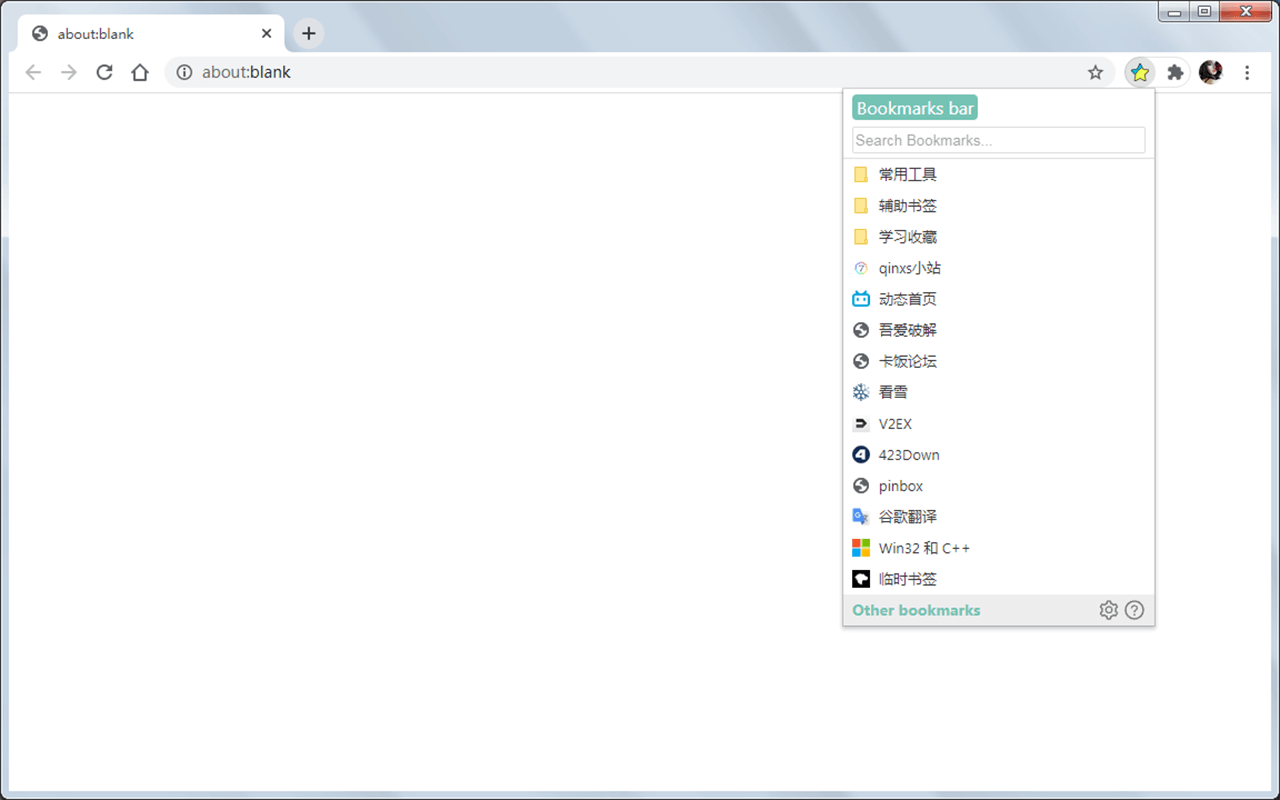
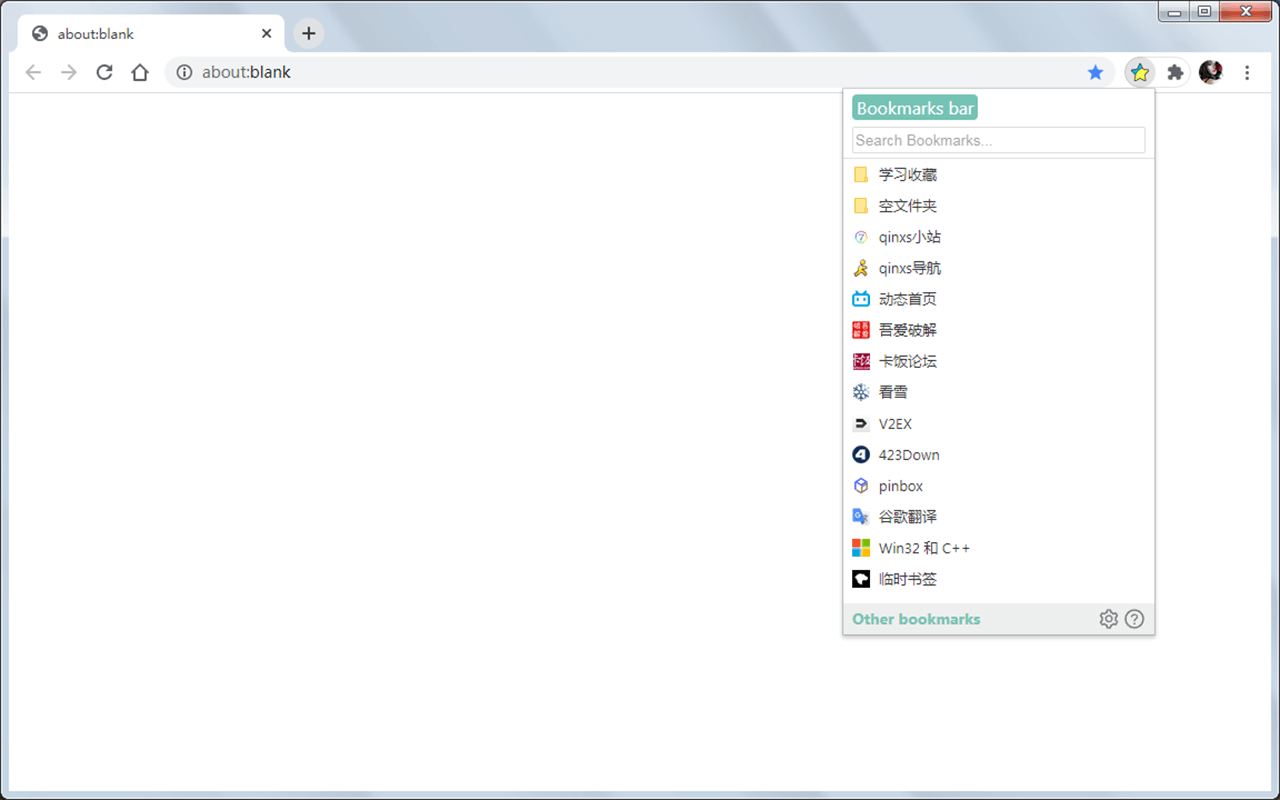
docs: 重新截图

diff --git a/screenshots/bookmarks_demo.html b/screenshots/bookmarks_demo.html
@@ -1,0 +1,124 @@
+<!DOCTYPE NETSCAPE-Bookmark-file-1>
+<!-- This is an automatically generated file.
+     It will be read and overwritten.
+     DO NOT EDIT! -->
+<META HTTP-EQUIV="Content-Type" CONTENT="text/html; charset=UTF-8">
+<TITLE>Bookmarks</TITLE>
+<H1>Bookmarks</H1>
+<DL><p>
+    <DT><H3 ADD_DATE="1639322214" LAST_MODIFIED="1639322711" PERSONAL_TOOLBAR_FOLDER="true">书签栏</H3>
+    <DL><p>
+        <DT><H3 ADD_DATE="1639322260" LAST_MODIFIED="1639322897">学习收藏</H3>
+        <DL><p>
+            <DT><H3 ADD_DATE="1639322894" LAST_MODIFIED="1639322894">参考站点</H3>
+            <DL><p>
+                <DT><A HREF="http://www.dxzy163.com/" ADD_DATE="1639322894">大学资源网</A>
+                <DT><A HREF="http://www.uugai.com/" ADD_DATE="1639322894">字体logo</A>
+                <DT><A HREF="https://www.60logo.com/list" ADD_DATE="1639322894">60LOGO素材库</A>
+                <DT><A HREF="https://colorhub.me/" ADD_DATE="1639322894">colorhub.me</A>
+                <DT><A HREF="https://zh.pngtree.com/" ADD_DATE="1639322894">Pngtree素材</A>
+                <DT><A HREF="https://pic.netbian.com/" ADD_DATE="1639322894">彼岸图网</A>
+                <DT><A HREF="https://www.dushu.com/showbook/124699/1825025.html" ADD_DATE="1639322894">读书网|dushu.com</A>
+                <DT><A HREF="https://www.iconfinder.com/" ADD_DATE="1639322894">Iconfinder</A>
+                <DT><A HREF="http://remixicon.com/" ADD_DATE="1639322894">Remix Icon</A>
+                <DT><A HREF="https://www.colorhunt.co/" ADD_DATE="1639322894">Color Hunt</A>
+                <DT><A HREF="https://sc.chinaz.com/jiaoben/" ADD_DATE="1639322894">js特效代码</A>
+                <DT><A HREF="https://chromium.woolyss.com/" ADD_DATE="1639322894">Chromium</A>
+                <DT><A HREF="https://www.library.ac.cn/" ADD_DATE="1639322894">Google Mirror</A>
+                <DT><A HREF="https://crxdl.com/" ADD_DATE="1639322894">CRX下载网</A>
+                <DT><A HREF="https://lug.ustc.edu.cn/wiki/lug/services/" ADD_DATE="1639322894">中科大镜像 - LUG</A>
+            </DL><p>
+            <DT><H3 ADD_DATE="1639322776" LAST_MODIFIED="1639322884">常用工具</H3>
+            <DL><p>
+            </DL><p>
+            <DT><H3 ADD_DATE="1639322260" LAST_MODIFIED="0">优秀教程</H3>
+            <DL><p>
+            </DL><p>
+            <DT><A HREF="https://zhuanlan.zhihu.com/p/67795412?utm_source=ZHShareTargetIDMore&utm_medium=social&utm_oi=76142648229888" ADD_DATE="1639322564">Qt开发经验总结之武林秘籍 - 知乎</A>
+            <DT><A HREF="https://www.kuboard.cn/learning/" ADD_DATE="1639322564">Kubernetes教程 | Kuboard</A>
+            <DT><A HREF="https://www.ip138.com/" ADD_DATE="1639322783">iP138</A>
+            <DT><A HREF="https://www.bootcdn.cn/" ADD_DATE="1639322783">BootCDN</A>
+            <DT><A HREF="https://www.wolframalpha.com/" ADD_DATE="1639322783">Wolfram|Alpha</A>
+            <DT><A HREF="https://www.bejson.com/convert/html2markdown/" ADD_DATE="1639322783">Html/MarkDown互转</A>
+            <DT><A HREF="https://latexlive.com/" ADD_DATE="1639322783">LaTeX在线</A>
+            <DT><A HREF="https://tool.lu/" ADD_DATE="1639322783">在线工具</A>
+            <DT><A HREF="http://www.dephp.cn/free/" ADD_DATE="1639322783">PHP在线解密</A>
+            <DT><A HREF="https://www.jsonla.com/http/test.html" ADD_DATE="1639322783">在线HTTP接口测试</A>
+            <DT><A HREF="https://www.bejson.com/jshtml_format/" ADD_DATE="1639322783">JS 压缩/解压</A>
+            <DT><A HREF="https://tool.chinaz.com/tools/urlencode.aspx" ADD_DATE="1639322783">长 Url 编码/解码</A>
+            <DT><A HREF="https://gcc.godbolt.org/" ADD_DATE="1639322783">Compiler Explorer</A>
+            <DT><A HREF="https://www.cs.usfca.edu/~galles/visualization/Algorithms.html" ADD_DATE="1639322783">Data Structure Visualization</A>
+            <DT><A HREF="https://jsoneditoronline.org/" ADD_DATE="1639322783">JSON Editor</A>
+            <DT><A HREF="https://www.bejson.com/" ADD_DATE="1639322783">bejson</A>
+            <DT><A HREF="https://jsbin.com/?html,output" ADD_DATE="1639322783">JS Bin</A>
+            <DT><A HREF="http://sqlfiddle.com/" ADD_DATE="1639322783">SQL Fiddle</A>
+            <DT><A HREF="https://regexper.com/" ADD_DATE="1639322783">Regexper正则图</A>
+            <DT><A HREF="https://regexr.com/" ADD_DATE="1639322783">RegExr: Learn, Build, &amp; Test RegEx</A>
+            <DT><A HREF="https://map.baidu.com/" ADD_DATE="1639322783">百度地图</A>
+            <DT><A HREF="https://www.cmd5.com/" ADD_DATE="1639322783">CMD5 解密加密</A>
+            <DT><A HREF="https://v3.cn.vuejs.org/guide/introduction.html" ADD_DATE="1639322564">介绍 | Vue.js</A>
+            <DT><A HREF="https://www.kancloud.cn/yunye/twig-cn/159454" ADD_DATE="1639322564">首页 · Twig 中文文档 · 看云</A>
+            <DT><A HREF="https://www.webpackjs.com/guides/shimming/" ADD_DATE="1639322564">shimming | webpack 中文网</A>
+            <DT><A HREF="https://www.kancloud.cn/manual/thinkphp5/118006" ADD_DATE="1639322564">安装ThinkPHP · ThinkPHP5.0完全开发手册 · 看云</A>
+            <DT><A HREF="https://www.kancloud.cn/thinkphp/linux-command-line/39468" ADD_DATE="1639322564">第三十七章：奇珍异宝 · The Linux Command Line 中文版 · 看云</A>
+            <DT><A HREF="https://referencesource.microsoft.com/?utm_source=ZHShareTargetIDMore&utm_medium=social&utm_oi=76142648229888" ADD_DATE="1639322564">.NET Framework</A>
+            <DT><A HREF="https://www.programcreek.com/" ADD_DATE="1639322564">ProgramCreek</A>
+            <DT><A HREF="https://phabricator.services.mozilla.com/" ADD_DATE="1639322564">phabricator - mozilla</A>
+            <DT><A HREF="https://searchfox.org/" ADD_DATE="1639322564">searchfox</A>
+            <DT><A HREF="https://cs.chromium.org/chromium/src/" ADD_DATE="1639322564">chromium源码</A>
[3 lines of base64/hex data omitted]
+            <DT><A HREF="https://www.ape8.cn/" ADD_DATE="1619515011">高品质无损音乐</A>
+            <DT><A HREF="http://www.51ape.com/" ADD_DATE="1620061521">51Ape无损音乐 | 需站外搜索</A>
[3 lines of base64/hex data omitted]
+            <DT><A HREF="http://bbs.bathome.net/thread-75-1-1.html" ADD_DATE="1427289291">批处理新手入门导读</A>
[2 lines of base64/hex data omitted]
+            <DT><A HREF="https://www.cnblogs.com/espie/archive/2011/05/01/2034135.html" ADD_DATE="1440348840">Redmine安装</A>
+            <DT><A HREF="https://www.cnblogs.com/jirglt/p/3549047.html" ADD_DATE="1452498196">mysql复制配置</A>
+            <DT><A HREF="http://blog.sina.com.cn/s/blog_6954c2c401017vvp.html" ADD_DATE="1452585896">Mysql主从配置</A>
+            <DT><A HREF="https://www.cnblogs.com/RitchieChen/archive/2008/07/30/1256829.html" ADD_DATE="1454503121">每页都有的表头和打印分页</A>
+            <DT><A HREF="https://www.jb51.net/" ADD_DATE="1439651694">脚本之家</A>
+            <DT><A HREF="https://markdown.com.cn/editor/" ADD_DATE="1639322641">Markdown在线</A>
+            <DT><A HREF="https://marked.js.org/demo/" ADD_DATE="1639322641">Marked Demo</A>
+            <DT><A HREF="https://7bu.top/" ADD_DATE="1639322641">去不图床</A>
+            <DT><A HREF="https://imgurl.org/" ADD_DATE="1639322641">ImgURL图床</A>
+            <DT><A HREF="https://imgtu.com/" ADD_DATE="1639322641">路过图床</A>
+            <DT><A HREF="https://habo.qq.com/index" ADD_DATE="1639322641">哈勃查毒</A>
+            <DT><A HREF="https://svgtopng.com/zh/" ADD_DATE="1639322641">SVG转PNG</A>
+            <DT><A HREF="https://cli.im/" ADD_DATE="1639322641">草料二维码生成</A>
+            <DT><A HREF="https://www.aconvert.com/cn/image/compress/" ADD_DATE="1639322641">aconvert</A>
+            <DT><A HREF="https://www.qqxiuzi.cn/zh/pinyin/" ADD_DATE="1639322641">汉字转拼音</A>
+            <DT><A HREF="javascript:(function(){var q,list_str='',_default=1;var{host,href}=location;if(!location.protocol.startsWith('http')){host='github.com';href='https://github.com'}var list=['github.com','hub.fastgit.org','github.com.cnpmjs.org','github1s.com'];for(var i in list){list_str+=i+' => '+list[i]+'\n'}var tip=%22%E9%80%89%E6%8B%A9%E8%A6%81%E5%8E%BB%E7%9A%84%E7%AB%99%E7%82%B9...\n\n%22+list_str+%22[9 %E6%89%93%E5%BC%80%E5%85%A8%E9%83%A8%E9%95%9C%E5%83%8F%E7%AB%99]\n\n%22;var _href=list.indexOf(host)!=-1?href:%27//%27+host;q=prompt(tip,_default);if(q==null){void%200}else%20if(q==9){list.forEach((e)=%3E{![%27github.com%27,%27github1s.com%27].includes(e)&&window.open(_href.replace(host,e))})}else{var%20url=list[q]||list[_default];window.open(_href.replace(host,url))}})();" ADD_DATE="1639322641">GitHub 辅助</A>
+            <DT><A HREF="javascript:(function(){'use strict';const suo_now=true;const suo_api='https://api.suowo.cn/api.htm';const suo_key='5e9aaab83a005a12b5e62d7e@333ce53204f1b4b3b58414b47ae8c113';const dq=css=>document.querySelector(css);let suoIm={show:function(){let content='%E4%B9%9F%E5%8F%AF%E4%BB%A5%E8%BE%93%E5%85%A5%E9%95%BF%E7%BD%91%E5%9D%80%EF%BC%9A';let style=document.createElement('style');style.id='my-style';style.innerHTML=`.dialog-container{position:fixed;top:0;width:40%;min-width:300px;margin:0 auto;border:1px solid#ddd;border-radius:4px;background-color:#fff;font:14px/1.5-apple-system,'Microsoft%20Yahei';z-index:99999}.ctrlV-content{padding:10px}.bm-btns{float:right;margin-right:20px;margin-bottom:10px}.long-url{display:block;width:98%;margin-top:10px;padding-left:0.3em;border:1px%20solid#ddd;border-radius:4px;line-height:28px}.mybtn{margin-right:6px;padding:0%2012px!important;border:none;border-radius:10px;background:#981a1a;color:#fff;letter-spacing:.5em;text-indent:.5em;font-size:14px;line-height:27.5px}.mybtn:hover{background-color:#0371df!important}#cancel{background:#2d2d2d}%60;let%20html=%60%3Cdiv%20class='dialog-container'%3E%3Cdiv%20class='ctrlV-content'%3E${content}%3Cinput%20class='long-url'value=''placeholder='%E4%B8%BA%E7%A9%BA%E5%88%99%E9%BB%98%E8%AE%A4%E4%B8%BA%E5%BD%93%E5%89%8D%E7%BD%91%E5%9D%80'%3E%3C/div%3E%3Cdiv%20class='bm-btns'%3E%3Cbutton%20id='operation'class='mybtn'%3E${suo_now?'%E6%B8%85%E7%A9%BA':'%E7%94%9F%E6%88%90'}%3C/button%3E%3Cbutton%20id='copy'class='mybtn'%3E%E5%A4%8D%E5%88%B6%3C/button%3E%3Cbutton%20id='cancel'class='mybtn'%3E%E5%8F%96%E6%B6%88%3C/button%3E%3C/div%3E%3C/div%3E%60;document.head.append(style);document.body.insertAdjacentHTML('beforeend',html);setTimeout(()=%3E{dq('.long-url').focus()},50);let%20screenWidth=window.screen.width;let%20_left=(screenWidth-(dq('.dialog-container').offsetWidth))/2;dq('.dialog-container').style.marginLeft=_left+'px';suo_now&&this.shortUrl(window.location.href);dq('.bm-btns').addEventListener('click',this.handle)},handle:function(){if(!event.target.id)return;let%20url=dq('.long-url').value||window.location.href;let%20button=event.target.id;let%20oldText=event.target.innerText;if(button=='operation'){if(oldText=='%E7%94%9F%E6%88%90'){suoIm.shortUrl(url);event.target.innerText='%E6%B8%85%E7%A9%BA'}else{dq('.long-url').value='';event.target.innerText='%E7%94%9F%E6%88%90'}}else{if(button=='copy'&&!dq('.long-url').value){dq('.long-url').setAttribute('placeholder','%E8%AF%B7%E5%85%88%E7%82%B9%20[%E7%94%9F%E6%88%90]%20%E5%90%8E%E5%86%8D%E5%A4%8D%E5%88%B6');return}dq('.dialog-container').remove();dq('#my-style').remove()}},shortUrl:function(long_url){this.jsonp({format:'jsonp',key:suo_key,expireDate:'2030-03-31',domain:'5',url:encodeURIComponent(long_url)},'jsoncallback')},jsonp:function(data,callback){let%20queryString='?';for(let%20k%20in%20data){queryString+=k+'='+data[k]+'&'}let%20_url=suo_api+queryString+'callback='+callback;let%20head=document.getElementsByTagName('head')[0];let%20script=document.createElement('script');script.setAttribute('type','text/javascript');head.appendChild(script);window[callback]=json=%3E{dq('.long-url').value=json.url;dq('.long-url').select();dq('#copy').addEventListener('click',this.copyText);head.removeChild(script);window[callback]=null};script.src=_url},copyText:function(){let%20ele=dq('.long-url');if(navigator.userAgent.match(/ipad|iphone/i)){let%20range=document.createRange();range.selectNode(ele);window.getSelection().addRange(range);document.execCommand('copy');window.getSelection().removeAllRanges()}else{ele.focus();ele.select();document.execCommand('copy')}}};suoIm.show()})();" ADD_DATE="1639322641">短网址生成</A>
+            <DT><A HREF="javascript:(function(){'use strict';let api='https://web.sinsyth.com/lxapi/douyujx.x?roomid=%27;initMyBookmarklet();function%20initMyBookmarklet(){const%20dq=css=%3Edocument.querySelector(css);let%20_id=location.href.match(/douyu\.com\/(?:.*rid=)?(\d+)/)||[];if(_id[1]){roomUrl(_id[1]);return}roomId();function%20roomId(){let%20q=prompt(%27%E8%8E%B7%E5%8F%96%E7%9B%B4%E6%92%AD%E6%BA%90%EF%BC%9A%E8%AF%B7%E8%BE%93%E5%85%A5%E8%A6%81%E6%9F%A5%E8%AF%A2%E7%9A%84%E6%88%BF%E9%97%B4ID%27);if(q==null){}else%20if(q.match(/^\s*$/)){window.open(%27https://www.douyu.com/directory/myFollow%27)}else{q=q.replace(/\s+/g,%27%27);if(!q.match(/^\d{1,}$/)){alert(%27%E8%AF%B7%E8%BE%93%E5%85%A5%E6%AD%A3%E7%A1%AE%E7%9A%84%E6%88%BF%E9%97%B4%E5%8F%B7%27);return%20roomId()}else{roomUrl(q)}}}function%20roomUrl(q){let%20requestURL=api+q;let%20xhr=new%20XMLHttpRequest();xhr.responseType=%27json%27;xhr.onload=function(){let%20state=xhr.response.state;if(state==%27NO%27){alert(%27%E8%AF%A5%E4%B8%BB%E6%92%AD%E5%B0%9A%E6%9C%AA%E5%BC%80%E6%92%AD,%20%E6%88%96%E8%80%85%E4%B8%8D%E5%AD%98%E5%9C%A8%E7%9A%84%E7%9B%B4%E6%92%AD%E9%97%B4%E5%8F%B7%E7%A0%81%27);return%20roomId()}else{let%20longLink=xhr.response.Rendata.link;dialog(longLink)}};xhr.open(%27GET%27,requestURL);xhr.send()}function%20dialog(url=%27%E6%B5%8B%E8%AF%95%E5%86%85%E5%AE%B9%27){let%20content=%27%E7%9B%B4%E6%92%AD%E6%BA%90%E5%9C%B0%E5%9D%80%EF%BC%88%E9%95%BF%E6%9C%9F%E6%9C%89%E6%95%88%EF%BC%89%EF%BC%9A%27;let%20style=document.createElement(%27style%27);style.id=%27my-style%27;style.innerHTML=`.dialog-container{position:fixed;top:0px;width:40%;min-width:300px;margin:0%20auto;border:1px%20solid#ddd;border-radius:4px;background-color:#fff;font:14px/1.5-apple-system,'Microsoft%20Yahei';z-index:99999}.ctrlV-content{padding:10px}.bm_btns{float:right;margin-right:20px;margin-bottom:10px}.ctrlV-url{display:block;width:98%;margin-top:10px;padding-left:0.3em;border:1px%20solid#ddd;border-radius:4px;line-height:28px}.mybtn{margin-right:6px;padding:0%2012px!important;border:none;border-radius:10px;background:#981a1a;color:#fff;letter-spacing:.5em;text-indent:.5em;font-size:14px;line-height:27.5px}.mybtn:hover{background-color:#0371df!important}#potplayer{letter-spacing:0.1em}#cancel{background:#2d2d2d}%60;let%20html=%60%3Cdiv%20class='dialog-container'%3E%3Cdiv%20class='ctrlV-content'%3E${content}%3Cinput%20class='ctrlV-url'value='${url}'%3E%3C/div%3E%3Cdiv%20class='bm_btns'%3E%3Cbutton%20id='potplayer'class='mybtn'%3EPotPlayer%3C/button%3E%3Cbutton%20id='btn'class='mybtn'%3E%E5%A4%8D%E5%88%B6%3C/button%3E%3Cbutton%20id='cancel'class='mybtn'%3E%E5%8F%96%E6%B6%88%3C/button%3E%3C/div%3E%3C/div%3E%60;document.head.append(style);dq('body').insertAdjacentHTML('beforeend',html);dq('.ctrlV-url').select();let%20screenWidth=window.screen.width;let%20_left=(screenWidth-(dq('.dialog-container').offsetWidth))/2;dq('.dialog-container').style.marginLeft=_left+'px';dq('#potplayer').addEventListener('click',function(){window.open('potplayer://'+dq('.ctrlV-url').value,'_self');dq('.dialog-container').remove();dq('style:last-child').remove()});dq('#btn').addEventListener('click',copyText);dq('#cancel').addEventListener('click',function(){dq('.dialog-container').remove();dq('#my-style').remove()})}function%20copyText(){dq('.ctrlV-url').focus();dq('.ctrlV-url').select();document.execCommand('copy');dq('.dialog-container').remove();dq('style:last-child').remove()}}})();" ADD_DATE="1639322641">斗鱼直播源</A>
+            <DT><A HREF="javascript:(function(){var q_num=prompt('%E8%93%9D%E9%92%BB%E6%88%90%E9%95%BF%E5%80%BC%EF%BC%9A%E8%AF%B7%E8%BE%93%E5%85%A5%E8%A6%81%E6%9F%A5%E8%AF%A2%E7%9A%84QQ%E5%8F%B7%E7%A0%81:');if(q_num==null||q_num.match(/^\s*$/)){}else{var url='http://www.175hd.com';var path='/qq/'+q_num+'.html';window.open(url+path)}})();" ADD_DATE="1639322641">查询蓝钻值</A>
[1 lines of base64/hex data omitted]
+            <DT><A HREF="https://www.webfont.com/onlinefont/index" ADD_DATE="1639322641">在线字体</A>
+            <DT><A HREF="http://zimuku.org/" ADD_DATE="1639322641">字幕库</A>
+            <DT><A HREF="https://app.xunjiepdf.com/" ADD_DATE="1639322641">迅捷PDF转换器</A>
+            <DT><A HREF="https://www.bmcx.com/" ADD_DATE="1639322641">便民查询网</A>
+            <DT><A HREF="http://616pic.com/" ADD_DATE="1639322641">图精灵</A>
+            <DT><A HREF="https://keycode.info/" ADD_DATE="1639322641">JavaScript KeyCodes</A>
+        </DL><p>
+        <DT><H3 ADD_DATE="1639322260" LAST_MODIFIED="1639323650">空文件夹</H3>
+        <DL><p>
+        </DL><p>
[12 lines of base64/hex data omitted]
+    </DL><p>
+    <DT><A HREF="about:blank" ADD_DATE="1639322473">about:blank</A>
+</DL><p>
